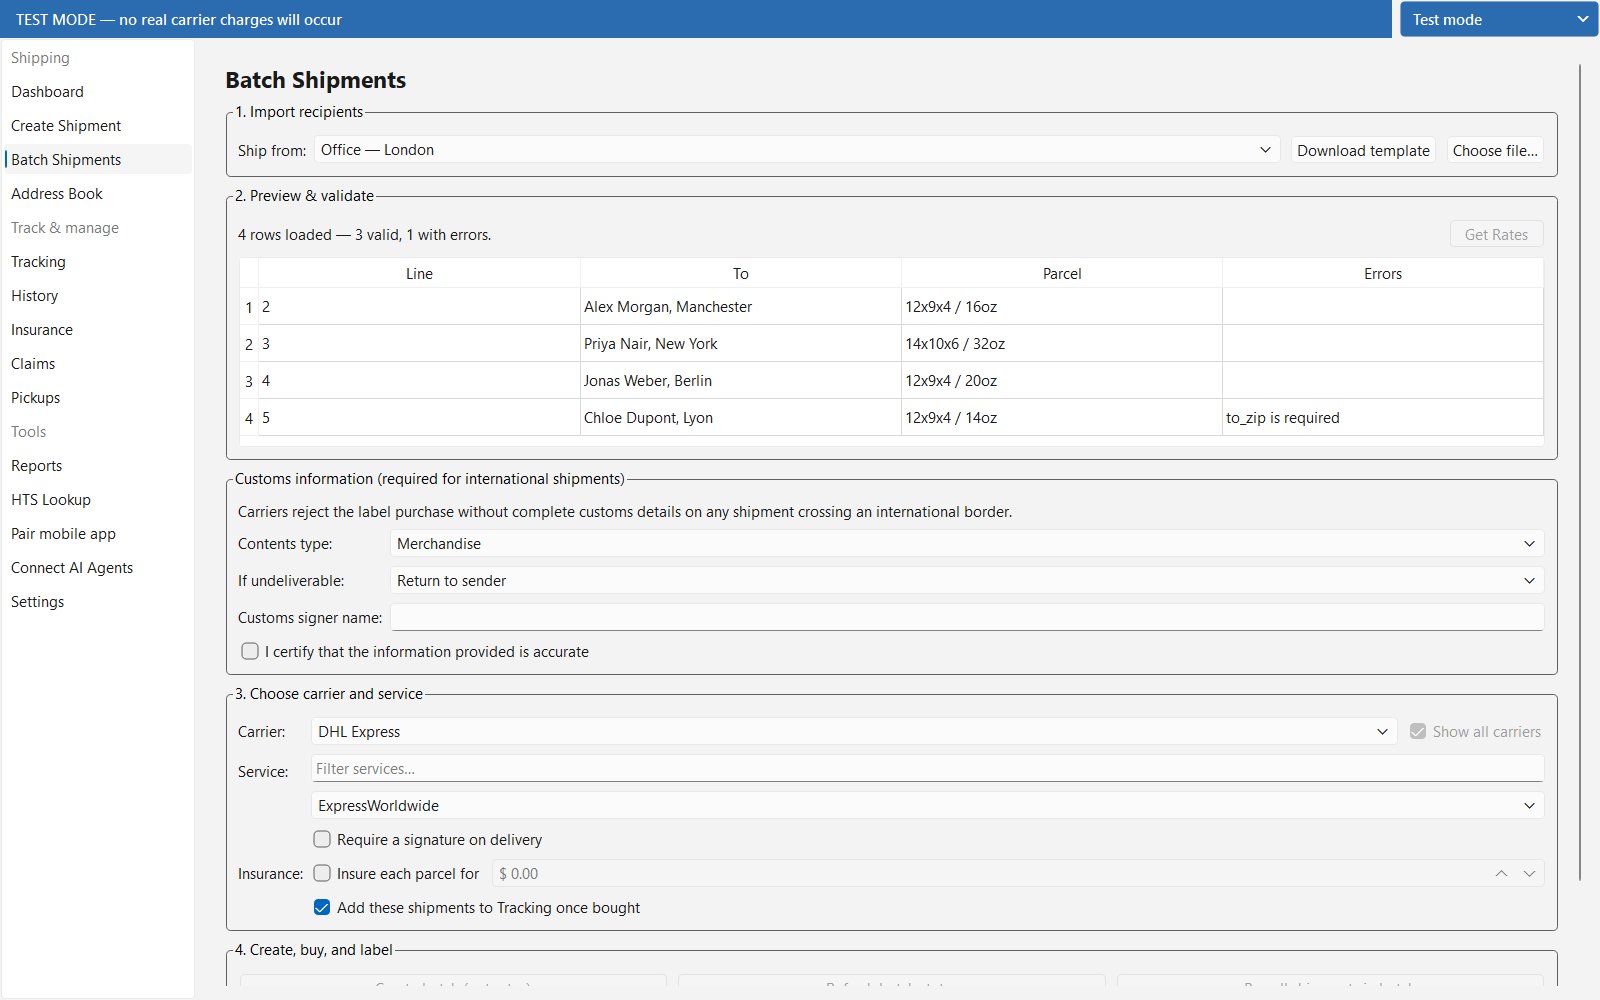
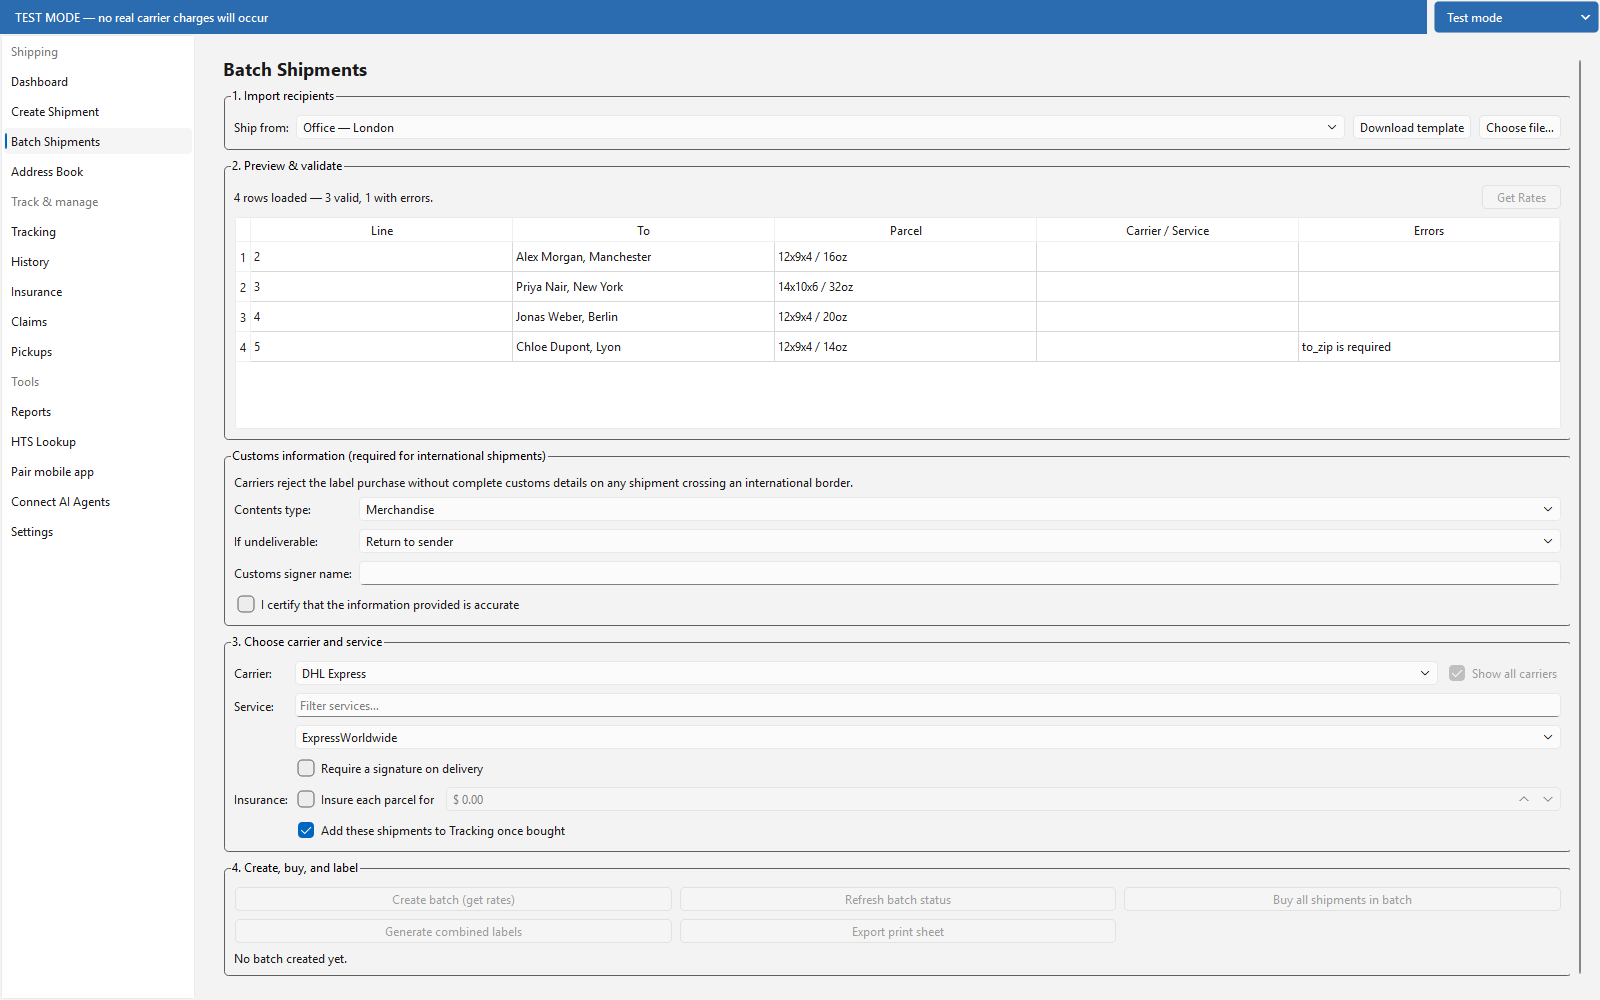
Bump version to 1.3.2 for MS Store, update batch screenshots and release notes
MS Store already has 1.3.1 approved, so the next MSIX submission needs 1.3.2.
Updates APP_VERSION and AppxManifest.xml, replaces BatchView screenshots across
all 7 localised screenshot sets with the new Carrier/Service column, and carries
forward the 1.3.1 release notes translations.

diff --git a/app/config.py b/app/config.py
@@ -13,7 +13,7 @@ KEYRING_SERVICE_NAME = "EasyPostDesktop"
 # (app/core/update_check.py) compares this against the latest GitHub release
 # tag to decide whether to prompt the user to update. Keep it in step with the
 # release tag and packaging/msix/AppxManifest.xml on every release.
-APP_VERSION = "1.3.1"
+APP_VERSION = "1.3.2"
 
 ICON_PATH = Path(__file__).parent / "resources" / "icons" / "app_icon.png"
 
